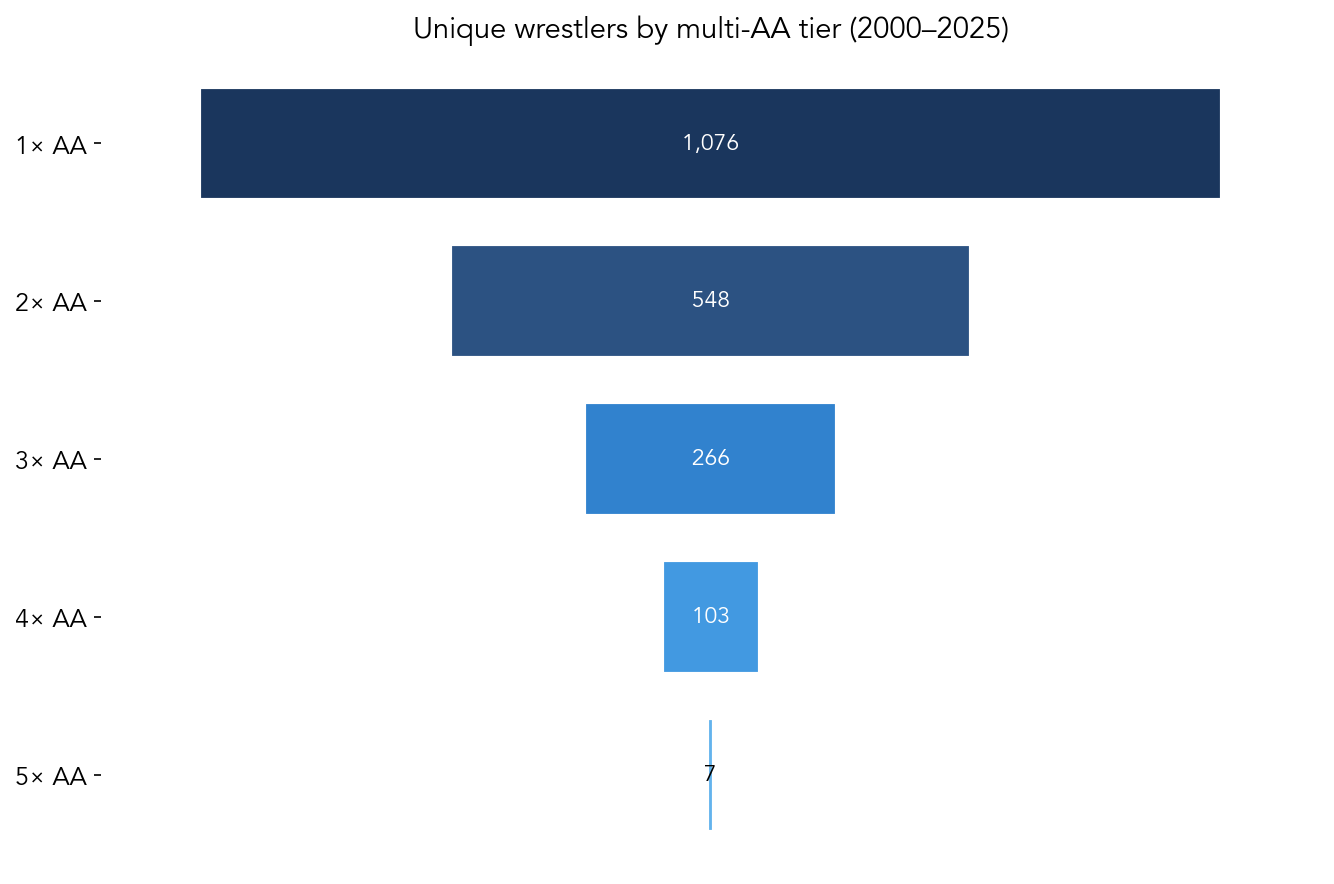
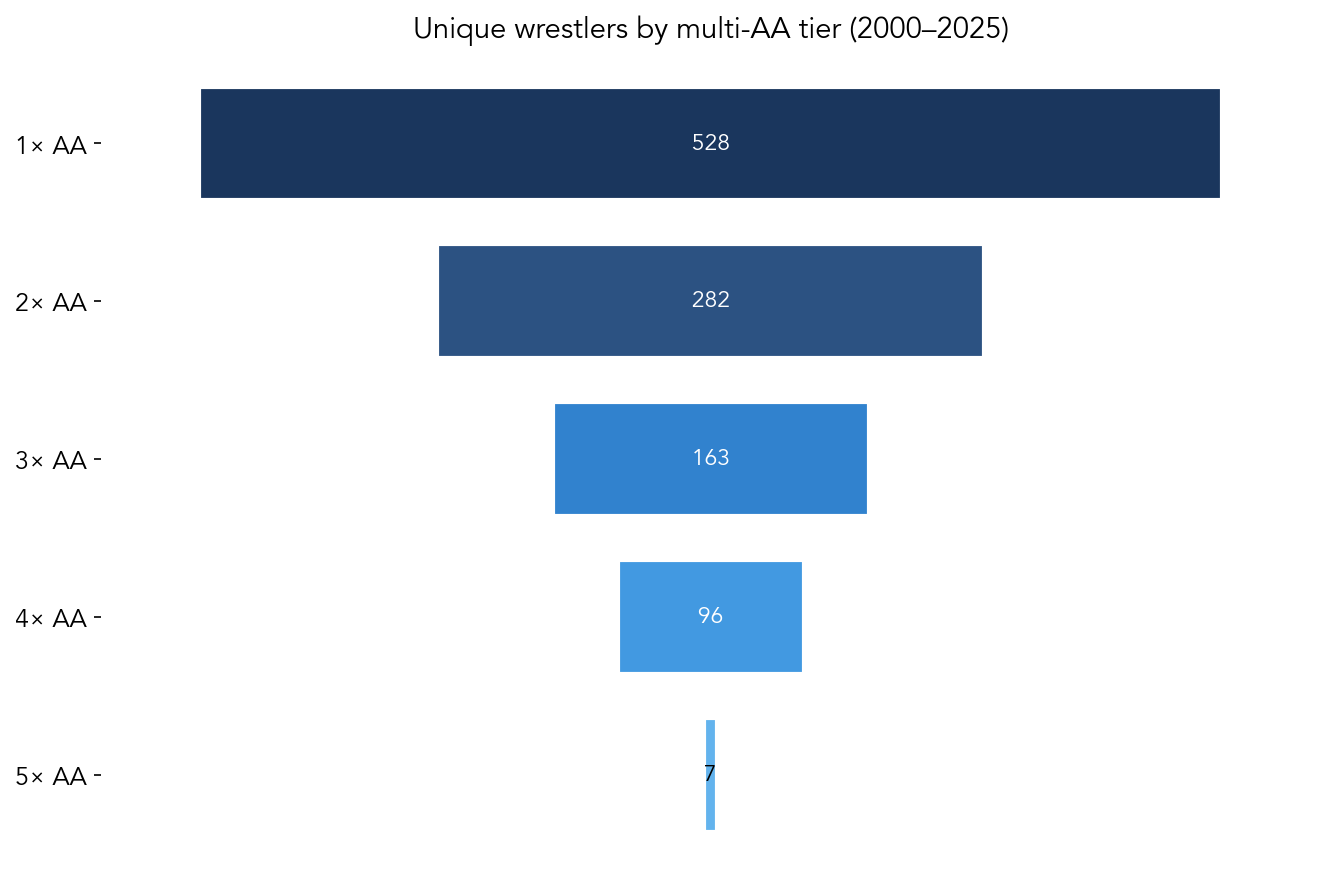
Funnel: use exact 1×–5× AA counts to match tables (4× = 96)
- Funnel bars now show exactly 528, 282, 163, 96, 7 (was cumulative 4+ = 103)
- report_02_stats.funnel and caption updated; chart regenerated

diff --git a/notebooks/analysis.py b/notebooks/analysis.py
@@ -477,12 +477,13 @@ multi_aa_wrestlers = aa_counts_per_wrestler[multi_aa_mask]
 n_multi_aa = len(multi_aa_wrestlers)
 print(f"Multi-AA wrestlers (AAd more than once): {n_multi_aa:,} out of {n_unique_wrestlers:,}")
 
-# Funnel: wrestlers with 2+, 3+, 4+, 5+ AAs (cumulative)
-n_2plus = (aa_counts_per_wrestler >= 2).sum()
-n_3plus = (aa_counts_per_wrestler >= 3).sum()
-n_4plus = (aa_counts_per_wrestler >= 4).sum()
-n_5plus = (aa_counts_per_wrestler >= 5).sum()
-funnel_counts = [n_unique_wrestlers, n_2plus, n_3plus, n_4plus, n_5plus]
+# Funnel: wrestlers with exactly 1×, 2×, 3×, 4×, 5× AAs (matches table counts)
+n_1x = (aa_counts_per_wrestler == 1).sum()
+n_2x = (aa_counts_per_wrestler == 2).sum()
+n_3x = (aa_counts_per_wrestler == 3).sum()
+n_4x = (aa_counts_per_wrestler == 4).sum()
+n_5x = (aa_counts_per_wrestler >= 5).sum()
+funnel_counts = [n_1x, n_2x, n_3x, n_4x, n_5x]
 
 # Funnel diagram: horizontal bars (width ∝ count), stacked top to bottom
 fig, ax = plt.subplots(figsize=(9, 6))
@@ -603,9 +604,9 @@ for n in [1, 2, 3, 4]:
     combo_html_lines.append(f"\n<h2 class=\"combo-tier-header\">{n}× AAs ({total_n:,})</h2>\n")
     combo_html_lines.append(combo_df_to_html(combo_table, cols, "eligibility-combo-aa") + "\n")
     print(f"  {n}× AA: {len(combo_table)} combinations (total wrestlers {total_n:,})")
-# Verify 4× AA: table = exactly 4 AAs (96); funnel "4+ AAs" = 103 = 96 + 7 (5×)
+# Funnel and tables both use exact counts (1×, 2×, 3×, 4×, 5×)
 n_exactly_4 = (aa_counts_per_wrestler == 4).sum()
-print(f"  (4× AA table count = {n_exactly_4:,} exactly 4 AAs; funnel 4+ = {n_4plus:,} = 4× + 5×)")
+print(f"  (4× AA = {n_exactly_4:,}; funnel matches table)")
 
 combo_table_path = TABLES_DIR / "eligibility_combos_by_tier.md"
 with open(combo_table_path, "w") as f:
@@ -766,10 +767,11 @@ report_02_stats = {
     "pct_improved_of_all": round(pct_improved_of_all, 1),
     "funnel": {
         "all": n_unique_wrestlers,
-        "n_2plus": int(n_2plus),
-        "n_3plus": int(n_3plus),
-        "n_4plus": int(n_4plus),
-        "n_5plus": int(n_5plus),
+        "n_1plus": int(n_1x),
+        "n_2plus": int(n_2x),
+        "n_3plus": int(n_3x),
+        "n_4plus": int(n_4x),
+        "n_5plus": int(n_5x),
     },
 }
 report_02_path = REPORT_DATA_DIR / "report_02_stats.json"

diff --git a/docs/reports/report_02_placeholder.md b/docs/reports/report_02_placeholder.md
@@ -15,13 +15,13 @@ This report explores multi-time All-Americans, aesthetic progressions (improveme
 
 ## Multi-AA funnel
 
-Of **{{ site.data.report_02_stats.n_unique_wrestlers }}** unique wrestlers who have placed at the NCAA tournament (2000–2025), **{{ site.data.report_02_stats.n_multi_aa }}** have All-Americaned more than once. The funnel below shows how many reached each tier (2×, 3×, 4×, or 5× AA).
+Of **{{ site.data.report_02_stats.n_unique_wrestlers }}** unique wrestlers who have placed at the NCAA tournament (2000–2025), **{{ site.data.report_02_stats.n_multi_aa }}** have All-Americaned more than once. The funnel below shows how many wrestlers have **exactly** 1×, 2×, 3×, 4×, or 5× AAs (same counts as the tables below).
 
-![Funnel: unique wrestlers by multi-AA tier (All → 2× → 3× → 4× → 5× AA)]({{ site.baseurl }}/charts/multi_aa_funnel.png)
+![Funnel: unique wrestlers by multi-AA tier (1× through 5× AA)]({{ site.baseurl }}/charts/multi_aa_funnel.png)
 
-*Unique wrestlers by multi-AA tier. Top: all 1,076; then wrestlers with 2+ AAs (548), 3+ (266), 4+ (103), 5+ (7).*
+*Exactly 1× (528), 2× (282), 3× (161), 4× (96), 5× (7). Total {{ site.data.report_02_stats.n_unique_wrestlers }} unique wrestlers.*
 
-- **All wrestlers:** {{ site.data.report_02_stats.n_unique_wrestlers }} unique wrestlers (at least one AA)
+- **1× AA:** {{ site.data.report_02_stats.funnel.n_1plus }} wrestlers
 - **2× AA:** {{ site.data.report_02_stats.funnel.n_2plus }} wrestlers
 - **3× AA:** {{ site.data.report_02_stats.funnel.n_3plus }} wrestlers
 - **4× AA:** {{ site.data.report_02_stats.funnel.n_4plus }} wrestlers
@@ -29,14 +29,14 @@ Of **{{ site.data.report_02_stats.n_unique_wrestlers }}** unique wrestlers who h
 
 Roughly half of all wrestlers who ever AA'd did it more than once; while around 10% achieved the elite goal of four All-American finishes. Only a small group of 7 wrestlers achieved an accomplishment likely never to be repeated of earning a fifth All-American finish thanks to the COVID 2020 eligibility extension.
 
-## When AA was earned (by eligibility)
+## When All-American was earned (by eligibility)
 
 For each tier (1×, 2×, 3×, 4× AA), the tables below show the **combinations of eligibility years** in which wrestlers earned their All-American finishes. Only combinations that appear in the data are listed; each table is sorted from most common to least. ● = AA in that eligibility year.
 
 {% capture report_02_combos %}{% include report_02_eligibility_combos.md %}{% endcapture %}
 {{ report_02_combos | markdownify }}
 
-## When NC was won (by eligibility)
+## When National Championships were won (by eligibility)
 
 Same idea for **national champions** (place = 1): for each tier (1× NC, 2× NC, etc.), the tables show the combinations of eligibility years in which wrestlers won titles. Sorted by most common to least. ● = NC in that eligibility year.
 
